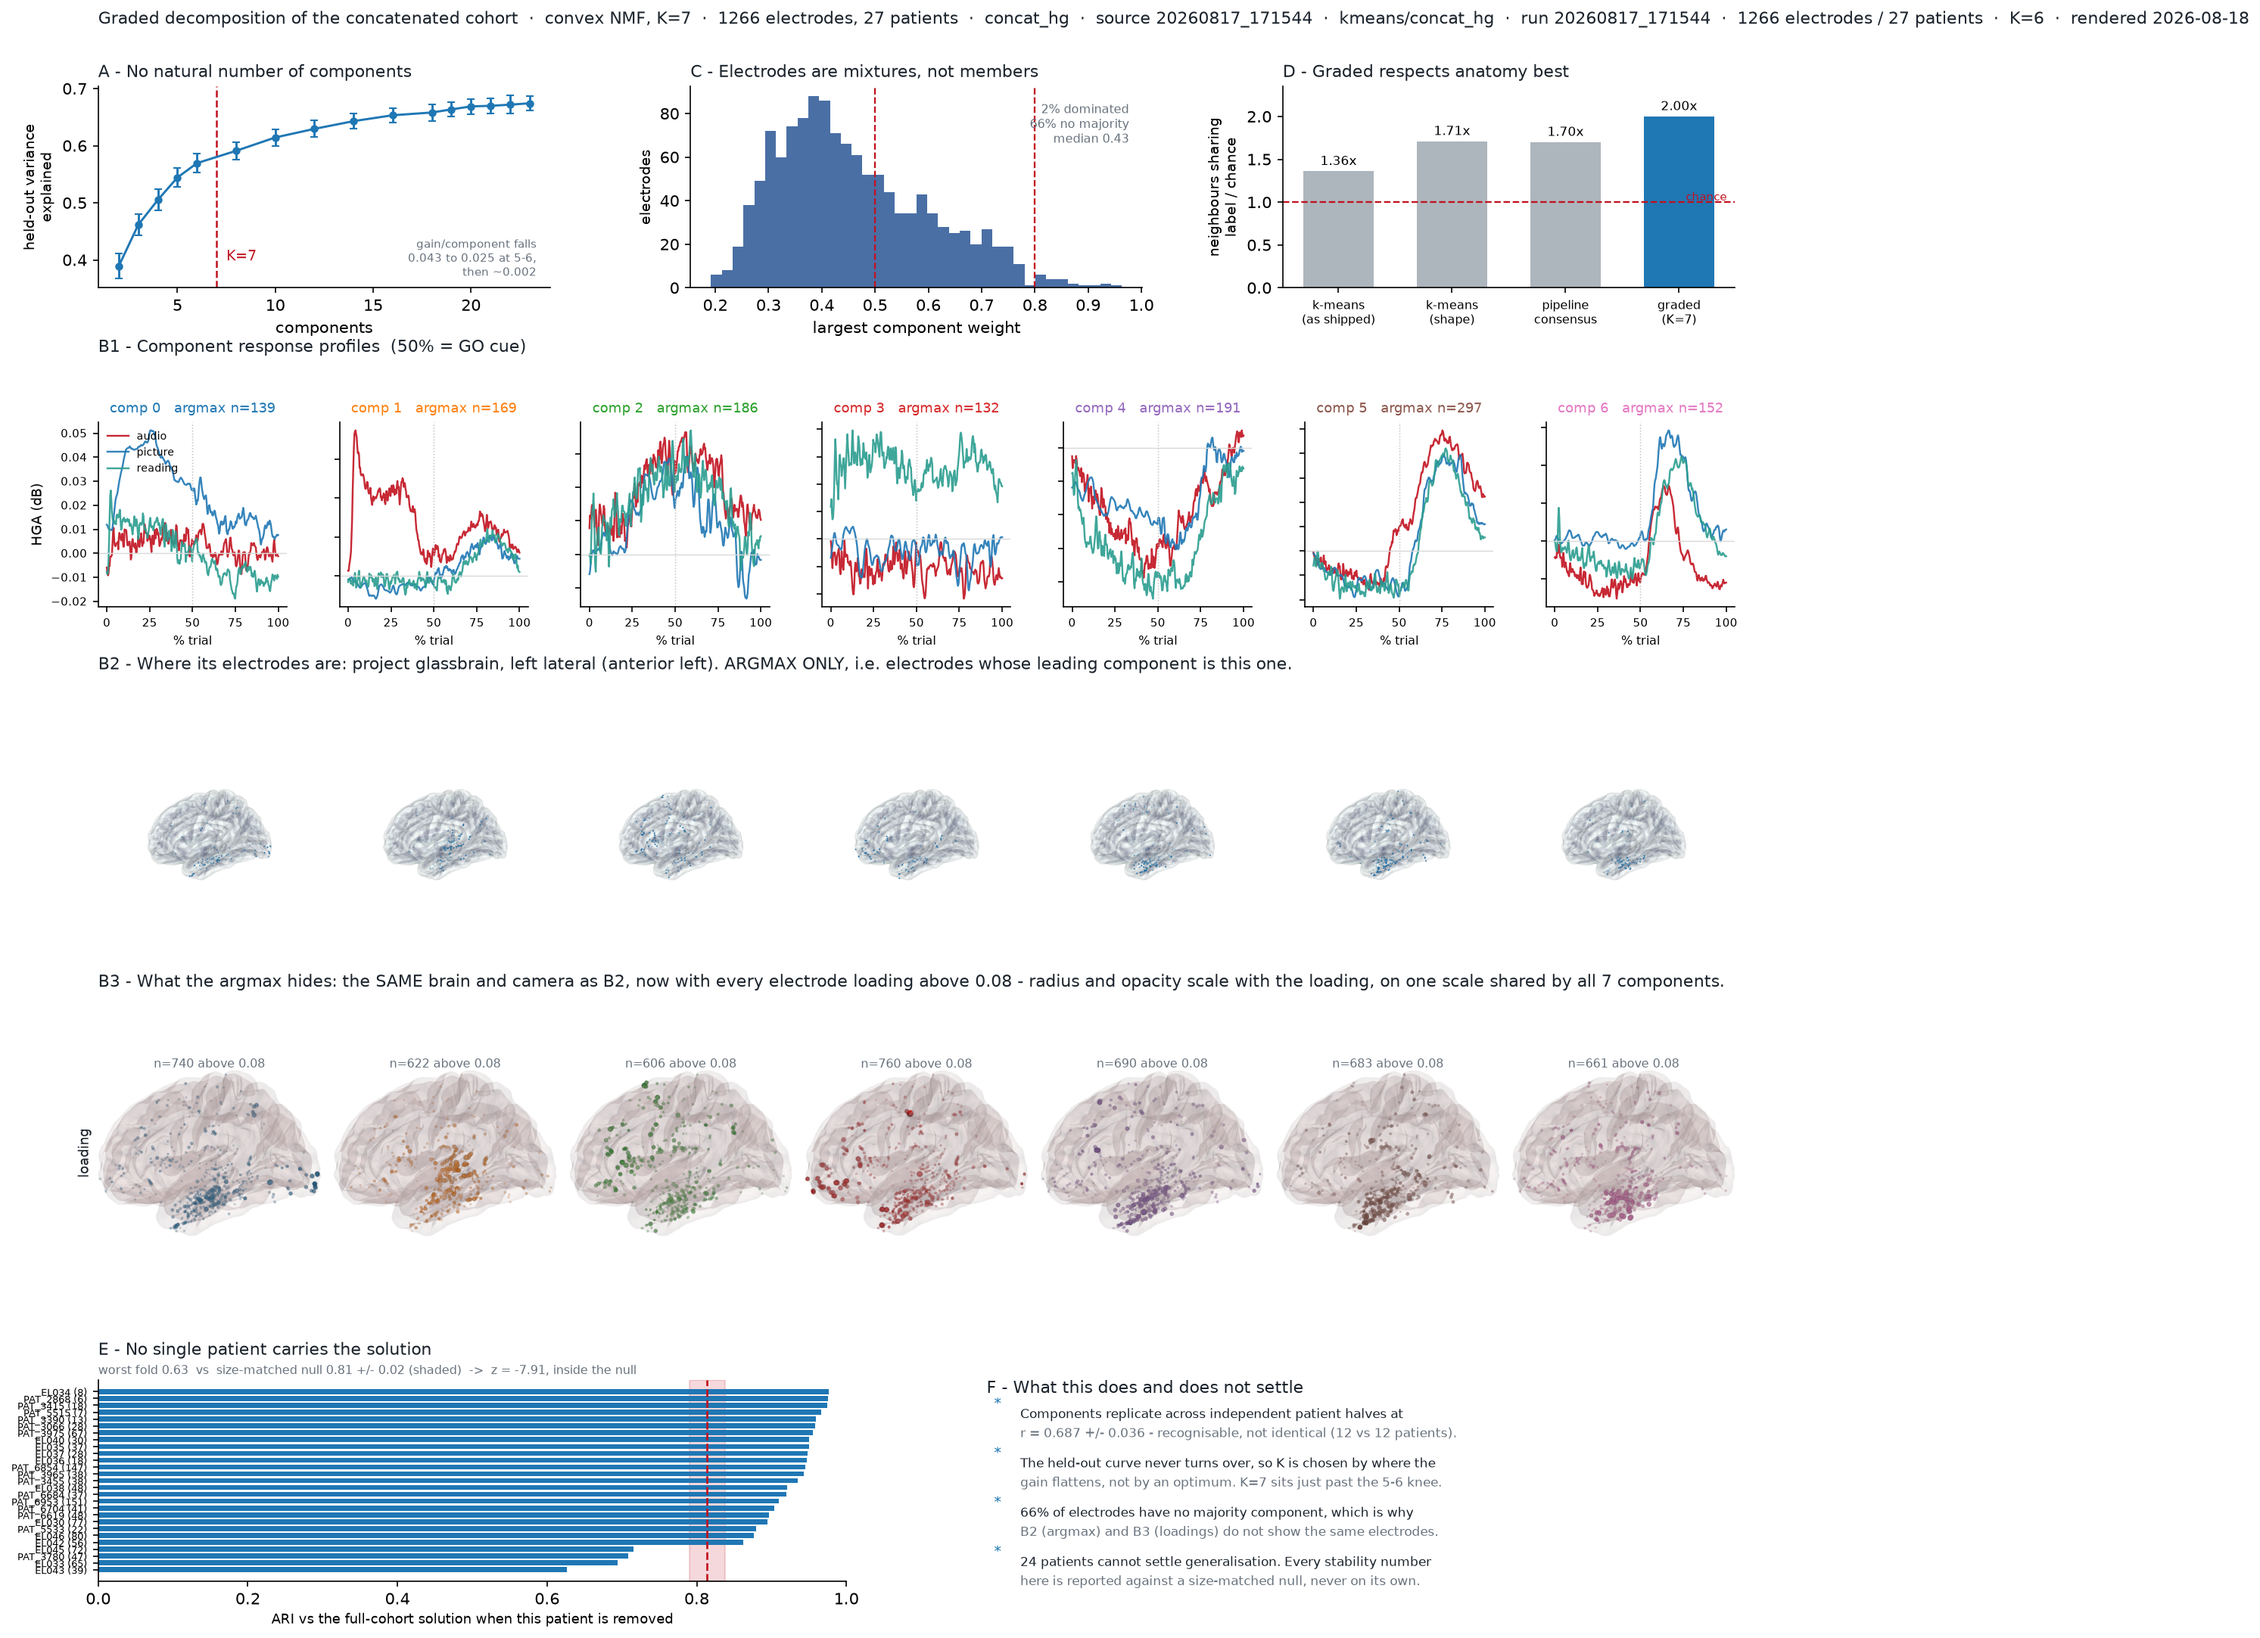
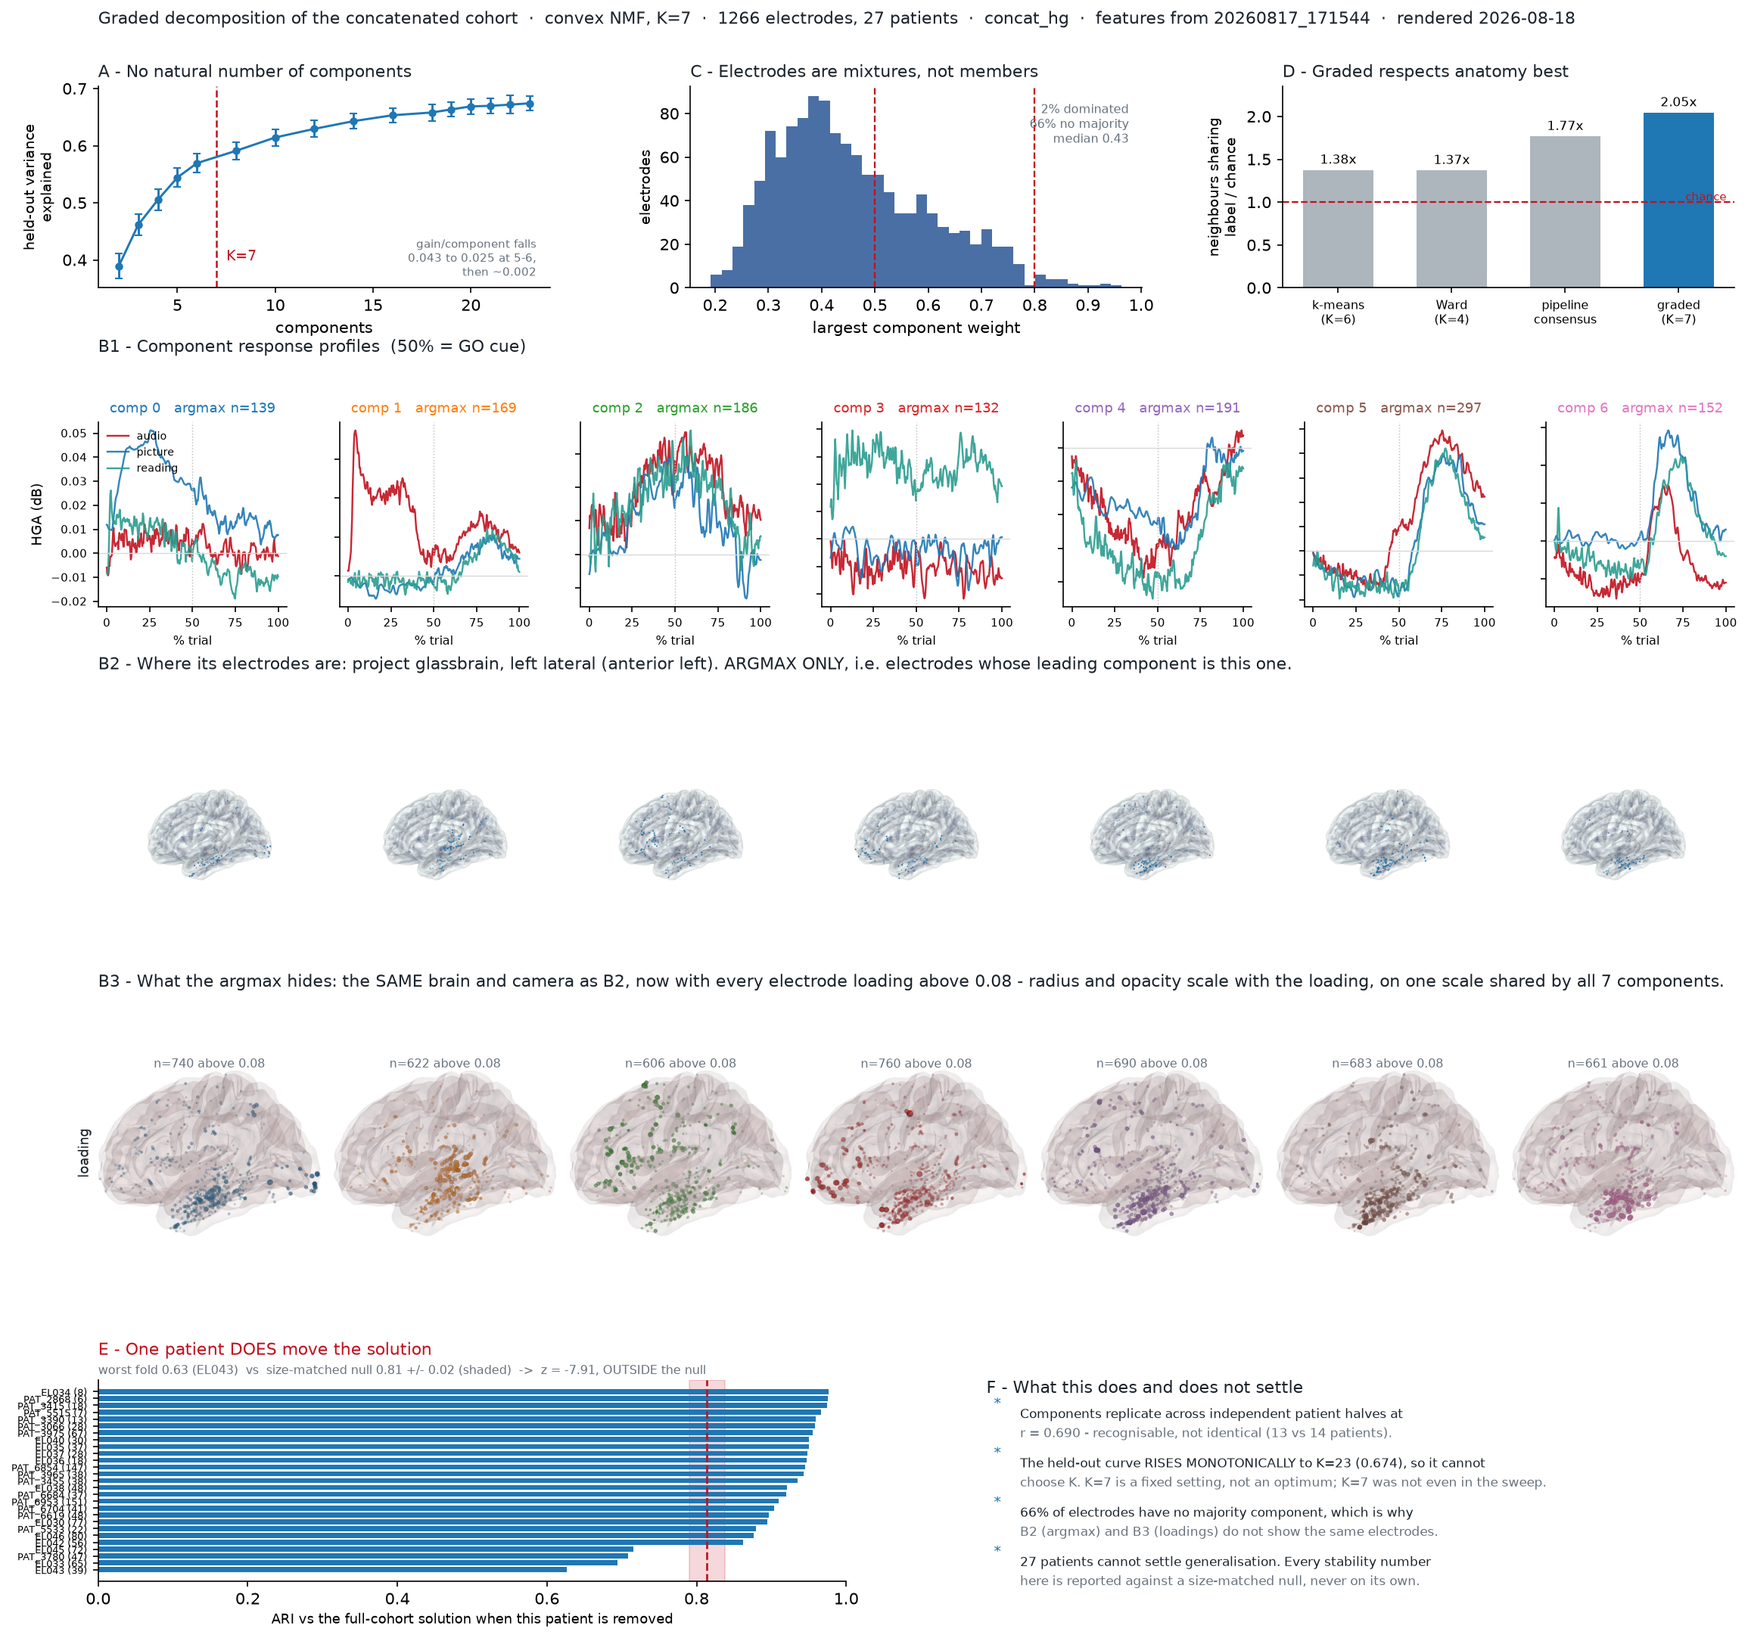
FIG C.3: every panel now reads the same run - D was frozen literals
You were right that D, E and F were not describing the same dataset as the rest
of the figure. A/B/C/E read live files, but:

  D  was FOUR HARD-CODED LITERALS - 1.36 / 1.71 / 1.70 / 2.00 - from the
     1027-electrode cohort at K=5. Regenerating the figure could never change
     them, so the panel kept reporting the old cohort under a fresh date. Now
     computed: k-means (K=6) 1.38x, Ward (K=4) 1.37x, pipeline consensus 1.77x,
     graded (K=7) 2.05x. The vague 'k-means (shape)' bar is replaced by Ward as
     shipped, which is a labelling that actually exists.

  E  read live numbers but ASSERTED the verdict: the title said 'no single
     patient carries the solution' and the caption ended 'inside the null'. Both
     are now derived from z. At 27 patients z = -7.91, so the title reads 'One
     patient DOES move the solution' in red and names the fold (EL043, 0.63 vs
     null 0.81 +/- 0.02).

  F  quoted r = 0.687 +/- 0.036 and '24 patients'. Now 0.690 across 13 vs 14
     patients, and 27.

Also in F, the K bullet now states what the curve actually shows rather than
implying a knee: the held-out curve RISES MONOTONICALLY to K=23 (0.674), so it
cannot choose K; K=7 is a fixed setting and was not even in the sweep
[2,3,4,5,6,8,10,...,23].

Suptitle no longer appends the k-means run's provenance, which printed
'K=7 ... K=6' in one line and read as a conflict.

diff --git a/02_FBM_Clustering/make_decomposition_figure.py b/02_FBM_Clustering/make_decomposition_figure.py
@@ -27,6 +27,7 @@ drift away from the analysis behind it.
 """
 from __future__ import annotations
 
+import json
 from pathlib import Path
 
 import matplotlib
@@ -90,7 +91,50 @@ def _norm(s) -> str:
     return str(s).replace("_", "").replace("-", "").upper()
 
 
+def _anatomy_bars(K, Gn, XYZ, meta_in):
+    """Neighbours-sharing-label / chance, for each labelling of the SAME electrodes.
+
+    Computed rather than quoted. The graded and consensus values come from the
+    decomposition's own meta.json; the two partitions are recomputed from their
+    labels.csv with the identical spatial_coherence call, so all four bars refer to
+    one cohort and one metric.
+    """
+    import sys as _sys
+    _sys.path.insert(0, str(ROOT / "functions"))
+    import lf_decompose as _D
+    import lf_runs as _LR
+
+    out = {}
+    for key, method, fset in (("k-means\n(as shipped)", "kmeans", "concat_hg"),
+                              ("Ward\n(as shipped)", "hierarchical", "concat_hg")):
+        try:
+            rd = _LR.newest_run(method, fset)
+            L = pd.read_csv(rd / "labels.csv")
+            ccol = next(c for c in L.columns
+                        if c.startswith("cluster_") and not c.endswith("_ranked"))
+            co = pd.read_csv(COORDS)
+            co["key"] = [f"{p}|{_norm(x)}" for p, x in zip(co["patient"], co["name"])]
+            L["key"] = [f"{p}|{_norm(e)}" for p, e in zip(L["patient_id"], L["electrode"])]
+            xyz = L.merge(co[["key", "x", "y", "z"]], on="key",
+                          how="left")[["x", "y", "z"]].to_numpy()
+            kk = int(L[ccol].nunique())
+            _, ratio = _D.spatial_coherence(L[ccol].to_numpy(), xyz)
+            out[f"{key.split(chr(10))[0]}\n(K={kk})"] = float(ratio)
+        except Exception as e:
+            print(f"  !! {method}/{fset} coherence failed: {type(e).__name__}: {e}")
+
+    cons = (meta_in or {}).get("consensus_spatial_coherence")
+    if cons:
+        out["pipeline\nconsensus"] = float(cons[1])
+    arg = (meta_in or {}).get("argmax_spatial_coherence")
+    out[f"graded\n(K={K})"] = float(arg[1]) if arg else float(
+        _D.spatial_coherence(Gn.argmax(1), XYZ)[1])
+    return out
+
+
 def main() -> int:
+    _mp0 = DEC / "meta.json"
+    meta_in = json.loads(_mp0.read_text(encoding="utf-8")) if _mp0.exists() else {}
     cv = pd.read_csv(DEC / "cv_rank_curve.csv")
     C = np.load(DEC / "components.npy")
     G = np.load(DEC / "G_loadings.npy")
@@ -152,9 +196,12 @@ def main() -> int:
             transform=ax.transAxes, ha="right", va="top", fontsize=7.8, color=MUTED)
 
     # ── D · anatomy -----------------------------------------------------------
+    # Every bar is COMPUTED from the current runs. They were hard-coded literals
+    # (1.36 / 1.71 / 1.70 / 2.00) from the 1027-electrode cohort at K=5, so the
+    # panel kept reporting the old numbers while every other panel moved to the
+    # 1266-electrode cohort - the figure looked internally consistent and was not.
     ax = fig.add_subplot(gs[0, 4:])
-    bars = {"k-means\n(as shipped)": 1.36, "k-means\n(shape)": 1.71,
-            "pipeline\nconsensus": 1.70, f"graded\n(K={K})": 2.00}
+    bars = _anatomy_bars(K, Gn, XYZ, meta_in)
     b = ax.bar(range(len(bars)), list(bars.values()),
                color=["#adb5bd", "#adb5bd", "#adb5bd", ACC], width=.62)
     ax.bar_label(b, fmt="%.2fx", fontsize=8.4, padding=2)
@@ -252,26 +299,44 @@ def main() -> int:
     ax.set_xlim(0, 1)
     ax.spines[["top", "right"]].set_visible(False)
     z = (r["ari"].min() - null["min"].mean()) / max(null["min"].std(), 1e-9)
-    ax.set_title("E - No single patient carries the solution", fontsize=10.5,
-                 loc="left", color=INK, pad=16)
+    # The verdict is DERIVED from z, not asserted. On the 24-patient cohort this
+    # sat inside the null and the panel title read "no single patient carries the
+    # solution"; at 27 patients z = -7.91 and the conclusion reverses. A hard-coded
+    # verdict would have kept printing the old one under a new figure date.
+    _inside = abs(z) < 2
+    ax.set_title("E - No single patient carries the solution" if _inside
+                 else "E - One patient DOES move the solution",
+                 fontsize=10.5, loc="left",
+                 color=INK if _inside else WARN, pad=16)
+    _worst = r.loc[r["ari"].idxmin(), "group"] if "group" in r.columns else "?"
     ax.text(0.0, 1.015,
-            f"worst fold {r['ari'].min():.2f}  vs  size-matched null "
+            f"worst fold {r['ari'].min():.2f} ({_worst})  vs  size-matched null "
             f"{null['min'].mean():.2f} +/- {null['min'].std():.2f} (shaded)  ->  "
-            f"z = {z:+.2f}, inside the null",
+            f"z = {z:+.2f}, {'inside' if _inside else 'OUTSIDE'} the null",
             transform=ax.transAxes, fontsize=7.8, color=MUTED, va="bottom")
 
     # ── F · limits ------------------------------------------------------------
     ax = fig.add_subplot(gs[4, 3:])
     ax.axis("off")
     ax.text(0, 1.0, "F - What this does and does not settle", fontsize=10.5, color=INK, va="top")
+    # Every number here is read from the run, so F cannot describe a different
+    # cohort from the panels above it.
+    _npat = int(meta_in.get("n_patients") or lab["patient_id"].nunique())
+    _rep = meta_in.get("replication_mean")
+    _ks = sorted(cv["k"].unique())
+    _cvm = cv.groupby("k")["var_explained"].mean()
+    _kmax = int(_cvm.idxmax())
     lines = [
         ("Components replicate across independent patient halves at",
-         "r = 0.687 +/- 0.036 - recognisable, not identical (12 vs 12 patients)."),
-        ("The held-out curve never turns over, so K is chosen by where the",
-         "gain flattens, not by an optimum. K=7 sits just past the 5-6 knee."),
+         (f"r = {_rep:.3f}" if _rep else "r = n/a") +
+         f" - recognisable, not identical ({_npat//2} vs {_npat - _npat//2} patients)."),
+        (f"The held-out curve RISES MONOTONICALLY to K={_kmax} "
+         f"({_cvm.max():.3f}), so it cannot",
+         f"choose K. K={K} is a fixed setting, not an optimum" +
+         (f"; K={K} was not even in the sweep." if K not in _ks else ".")),
         (f"{100*(top < 0.5).mean():.0f}% of electrodes have no majority component, which is why",
          "B2 (argmax) and B3 (loadings) do not show the same electrodes."),
-        ("24 patients cannot settle generalisation. Every stability number",
+        (f"{_npat} patients cannot settle generalisation. Every stability number",
          "here is reported against a size-matched null, never on its own."),
     ]
     y = 0.86
@@ -284,11 +349,14 @@ def main() -> int:
     import json as _json
     _mp = DEC / "meta.json"
     _m = _json.loads(_mp.read_text(encoding="utf-8")) if _mp.exists() else {}
+    # Describe the DECOMPOSITION, not the k-means run it borrowed X from - appending
+    # that run's provenance printed "K=7 ... K=6" in one line and read as a conflict.
+    from datetime import datetime as _dt
     _stamp = (f"convex NMF, K={_m.get('K', '?')}  ·  "
               f"{_m.get('n_electrodes', '?')} electrodes, "
               f"{_m.get('n_patients', '?')} patients  ·  {FSET}  ·  "
-              f"source {_m.get('source_run', '?').split('/')[-1]}  ·  "
-              f"{LR.provenance(RUN)}")
+              f"features from {_m.get('source_run', '?').split('/')[-1]}  ·  "
+              f"rendered {_dt.now():%Y-%m-%d}")
     fig.suptitle("Graded decomposition of the concatenated cohort  ·  " + _stamp,
                  fontsize=10.5, x=0.055, ha="left", y=0.985, color=INK)
     OUT.parent.mkdir(parents=True, exist_ok=True)
